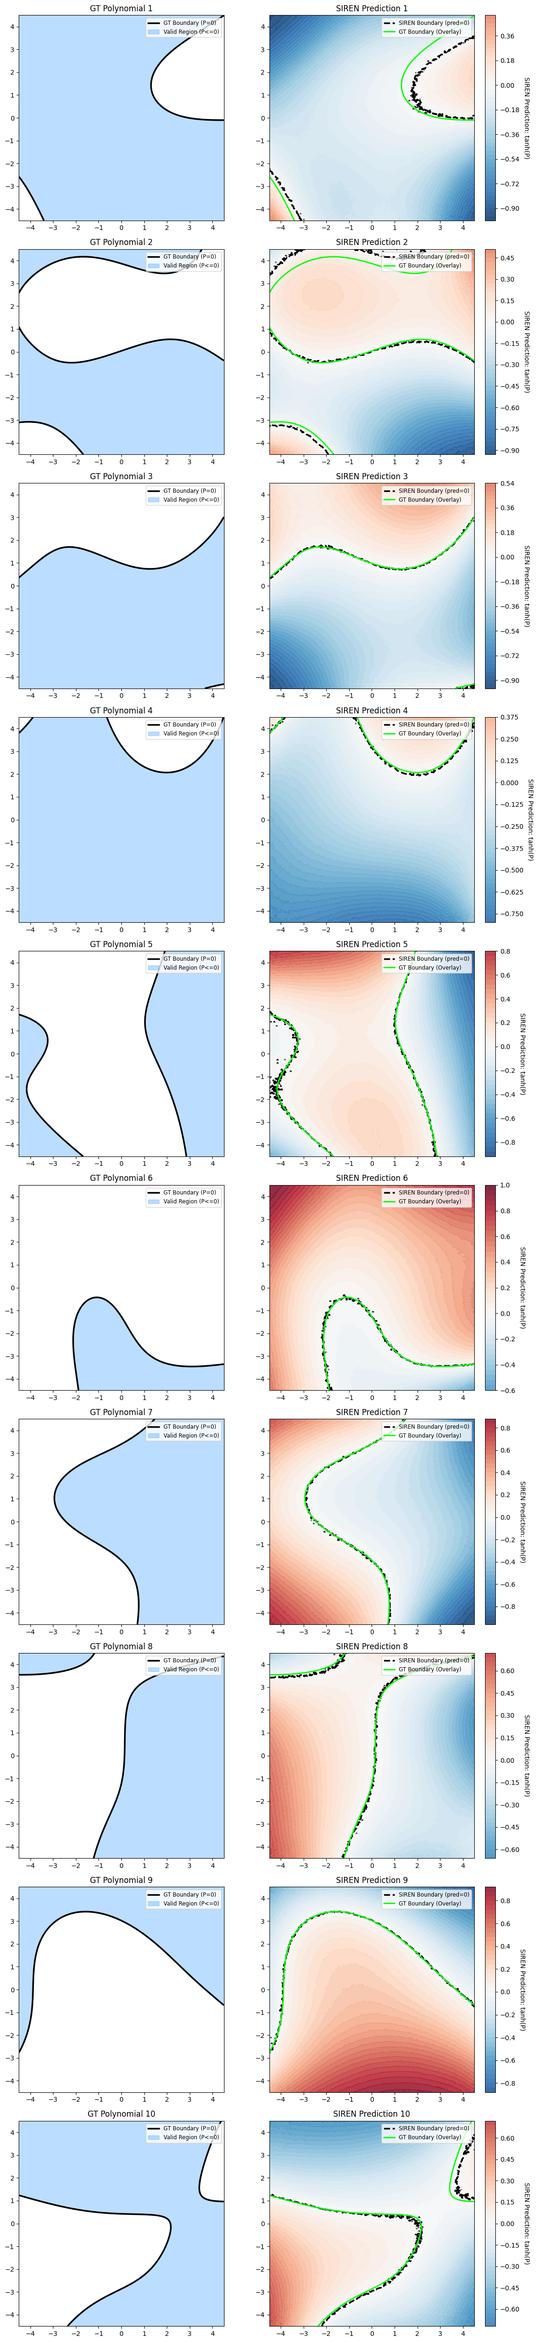
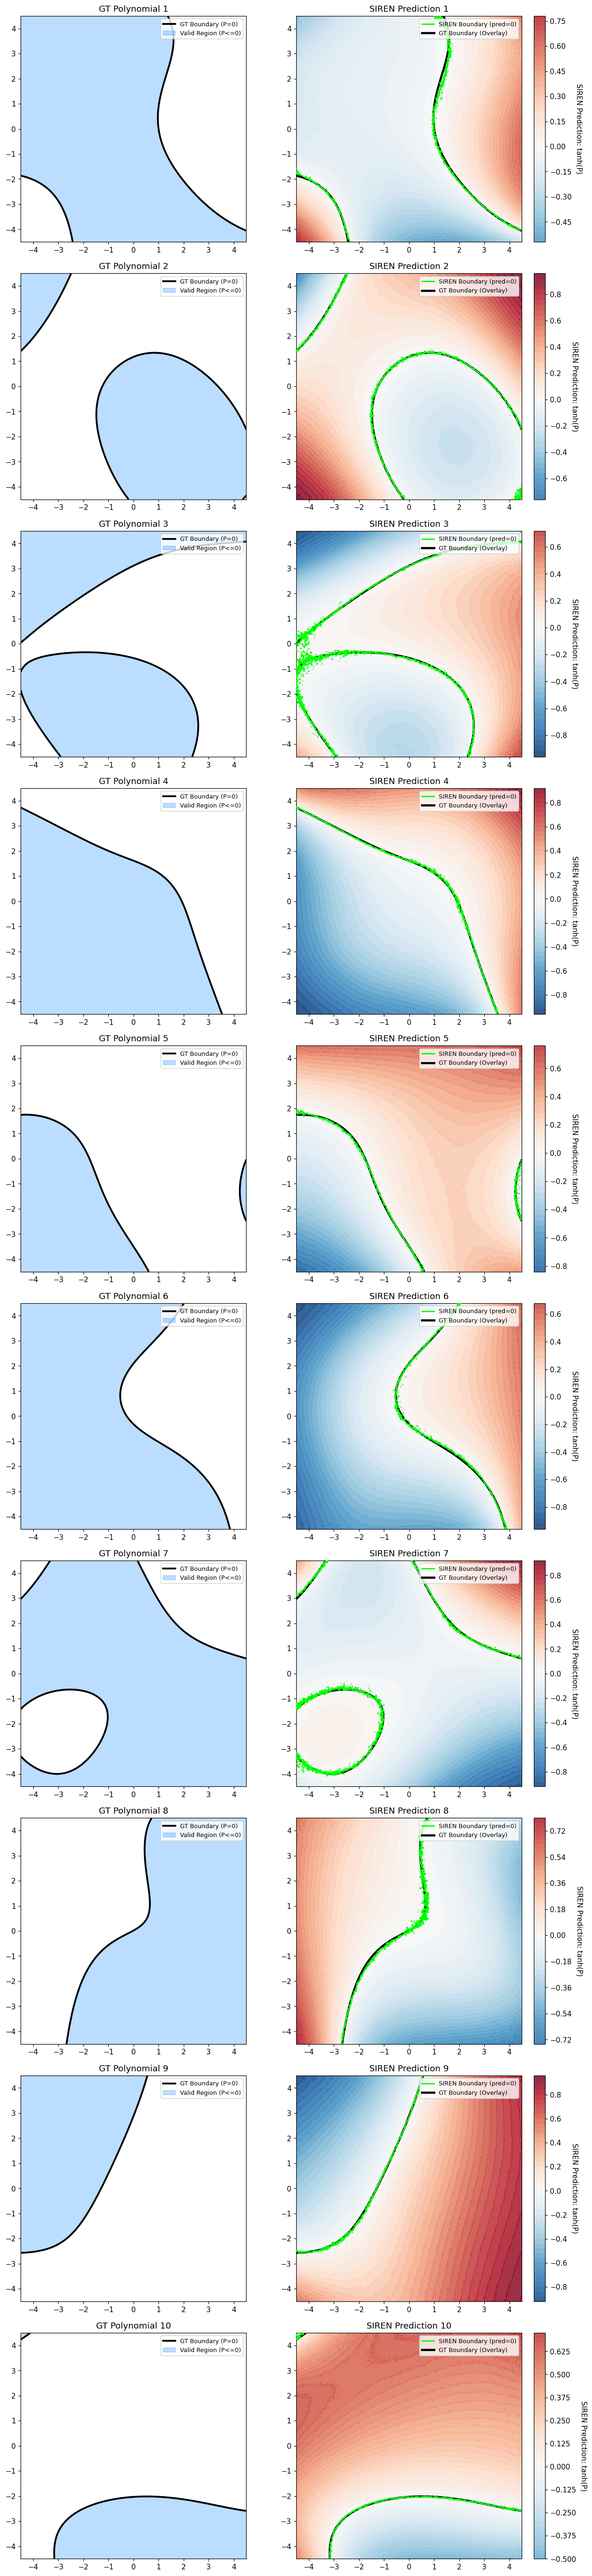
update the siren plot

diff --git a/constrained_fm/src/visualization/diagnostics.py b/constrained_fm/src/visualization/diagnostics.py
@@ -13,6 +13,7 @@ import numpy as np
 import torch
 from matplotlib.figure import Figure
 from matplotlib.lines import Line2D
+from matplotlib.patches import Patch
 from pathlib import Path
 
 from constrained_fm.src.consts import PLANE_SCALE, POLYNOMIAL_DEGREE
@@ -130,6 +131,75 @@ def plot_believed_vs_true(siren, samples_per_shape, z_per_shape, coeffs_per_shap
     return fig
 
 
+def plot_functa_extraction(siren, coeffs: torch.Tensor, z_batch: torch.Tensor,
+                           degree: int = POLYNOMIAL_DEGREE, scale: float = PLANE_SCALE,
+                           resolution: int = 500) -> Figure:
+    """Side-by-side ground-truth polynomial vs. the SIREN's decoded tanh(P) field.
+
+    Left panel: the true region {P(x) <= 0} with its P(x) = 0 boundary.
+    Right panel: SIREN(x, z) as a filled field, its zero level set, and the true
+    boundary overlaid so the two curves can be compared directly.
+    """
+    from constrained_fm.src.geometry.polynomials import (compute_poly_features_batched,
+                                                         evaluate_poly_batched)
+
+    device = next(siren.parameters()).device
+    num_shapes = coeffs.shape[0]
+
+    axis = torch.linspace(-scale, scale, resolution)
+    grid_y, grid_x = torch.meshgrid(axis, axis, indexing="ij")
+    xx, yy = grid_x.numpy(), grid_y.numpy()
+
+    grid_raw = torch.stack([grid_x, grid_y], dim=-1).view(1, -1, 2).to(device)
+    grid_raw = grid_raw.expand(num_shapes, -1, -1)
+
+    x_pow, y_pow = compute_poly_features_batched(grid_raw, degree=degree, scale=scale)
+    P_grid = evaluate_poly_batched(x_pow, y_pow, coeffs)
+    P_grid = P_grid.view(num_shapes, resolution, resolution).cpu().numpy()
+
+    with torch.no_grad():
+        preds = siren(grid_raw / scale, z_batch).squeeze(-1)
+    preds = preds.view(num_shapes, resolution, resolution).cpu().numpy()
+
+    fig, axes = plt.subplots(num_shapes, 2, figsize=(12, 5 * num_shapes), squeeze=False)
+
+    for i in range(num_shapes):
+        ax_gt, ax_pred = axes[i]
+
+        ax_gt.contourf(xx, yy, P_grid[i], levels=[-float("inf"), 0.0],
+                       colors=["dodgerblue"], alpha=0.3)
+        ax_gt.contour(xx, yy, P_grid[i], levels=[0.0], colors="black", linewidths=2.5)
+        ax_gt.set_xlim(-scale, scale)
+        ax_gt.set_ylim(-scale, scale)
+        ax_gt.set_aspect("equal")
+        ax_gt.set_title(f"GT Polynomial {i + 1}")
+        ax_gt.legend(handles=[
+            Line2D([0], [0], color="black", lw=2.5, label="GT Boundary (P=0)"),
+            Patch(color="dodgerblue", alpha=0.3, label="Valid Region (P<=0)"),
+        ], loc="upper right", fontsize="small")
+
+        cf = ax_pred.contourf(xx, yy, preds[i], levels=50, cmap="RdBu_r", alpha=0.85,
+                              vmin=-1, vmax=1)
+        ax_pred.contour(xx, yy, P_grid[i], levels=[0.0], colors="black", linewidths=3.0,
+                        linestyles="solid", zorder=3)
+        ax_pred.contour(xx, yy, preds[i], levels=[0.0], colors="lime", linewidths=1.8,
+                        linestyles="solid", zorder=4)
+        ax_pred.set_xlim(-scale, scale)
+        ax_pred.set_ylim(-scale, scale)
+        ax_pred.set_aspect("equal")
+        ax_pred.set_title(f"SIREN Prediction {i + 1}")
+        ax_pred.legend(handles=[
+            Line2D([0], [0], color="lime", lw=1.8, label="SIREN Boundary (pred=0)"),
+            Line2D([0], [0], color="black", lw=3.0, label="GT Boundary (Overlay)"),
+        ], loc="upper right", fontsize="small")
+
+        cbar = fig.colorbar(cf, ax=ax_pred, fraction=0.046, pad=0.04)
+        cbar.set_label("SIREN Prediction: tanh(P)", rotation=270, labelpad=15)
+
+    fig.tight_layout()
+    return fig
+
+
 def plot_likelihood(likelihood, coeffs: torch.Tensor | None = None,
                     degree: int = POLYNOMIAL_DEGREE, scale: float = PLANE_SCALE,
                     grid_size: int = 200, device=None) -> Figure:
@@ -188,5 +258,5 @@ def plot_success_vs_fidelity(success_rate, mass, mass_iou) -> Figure:
 
 
 __all__ = ["save_figure", "plot_loss_curve", "plot_sample_trajectory", "plot_final_samples",
-           "plot_final_samples_gallery", "plot_believed_vs_true", "plot_likelihood",
-           "plot_success_vs_fidelity"]
+           "plot_final_samples_gallery", "plot_believed_vs_true", "plot_functa_extraction",
+           "plot_likelihood", "plot_success_vs_fidelity"]

diff --git a/constrained_fm/scripts/plot_functa_extraction.py b/constrained_fm/scripts/plot_functa_extraction.py
@@ -1,0 +1,71 @@
+# -*- coding: utf-8 -*-
+"""Regenerates the Functa reconstruction figure: GT polynomial vs. decoded SIREN field.
+
+Samples fresh polynomials, extracts their latents with the config's CAVIA inner loop, and
+renders one row per shape into constrained_fm/images/functa/polynomial_functa.png.
+
+    python -m constrained_fm.scripts.plot_functa_extraction --run-id <run_id>
+"""
+
+from __future__ import annotations
+
+import argparse
+from pathlib import Path
+
+import matplotlib
+
+matplotlib.use("Agg")
+
+import torch
+
+from constrained_fm.src.datasets.constraints import sample_valid_polynomials
+from constrained_fm.src.datasets.functa_conditioning import sample_query_points
+from constrained_fm.src.experiment.registry import load_config
+from constrained_fm.src.experiment.runtime import load_siren, resolve_device, set_seed
+from constrained_fm.src.geometry.polynomials import compute_poly_features_batched, evaluate_poly_batched
+from constrained_fm.src.inference.latent_extractor import extract_latents_batched
+from constrained_fm.src.visualization import diagnostics as diag
+
+
+def build_parser() -> argparse.ArgumentParser:
+    parser = argparse.ArgumentParser(description="Render the Functa extraction figure.")
+    parser.add_argument("--run-id", required=True, help="run whose SIREN / extraction config to use")
+    parser.add_argument("--num-shapes", type=int, default=10)
+    parser.add_argument("--resolution", type=int, default=500,
+                        help="rendering grid per axis; higher removes jaggedness in the zero level set")
+    parser.add_argument("--seed", type=int, default=0)
+    parser.add_argument("--out", default="constrained_fm/images/functa/polynomial_functa.png")
+    return parser
+
+
+def main(argv: list[str] | None = None) -> int:
+    args = build_parser().parse_args(argv)
+
+    cfg = load_config(args.run_id)
+    device = resolve_device()
+    siren = load_siren(cfg, device)
+    print(f"run_id {cfg.run_id} | device {device}")
+
+    set_seed(args.seed)
+    polys = sample_valid_polynomials(args.num_shapes, degree=cfg.degree, scale=cfg.scale,
+                                     min_area=cfg.pool.min_area, max_area=cfg.pool.max_area,
+                                     device=device)
+
+    X_raw = sample_query_points(args.num_shapes, cfg.extraction.points_per_shape, scale=cfg.scale,
+                                gmm_fraction=cfg.extraction.query_gmm_fraction, device=device)
+    x_pow, y_pow = compute_poly_features_batched(X_raw, degree=cfg.degree, scale=cfg.scale)
+    Y = torch.tanh(evaluate_poly_batched(x_pow, y_pow, polys))
+    z_batch, extraction_mse = extract_latents_batched(siren, X_raw / cfg.scale, Y,
+                                                      lr=cfg.extraction.lr,
+                                                      steps=cfg.extraction.steps)
+    print(f"mean extraction MSE: {float(extraction_mse.mean()):.6f}")
+
+    fig = diag.plot_functa_extraction(siren, polys, z_batch, degree=cfg.degree, scale=cfg.scale,
+                                      resolution=args.resolution)
+    path = diag.save_figure(fig, Path(args.out))
+    print(f"wrote {path}")
+    return 0
+
+
+if __name__ == "__main__":
+    raise SystemExit(main())
